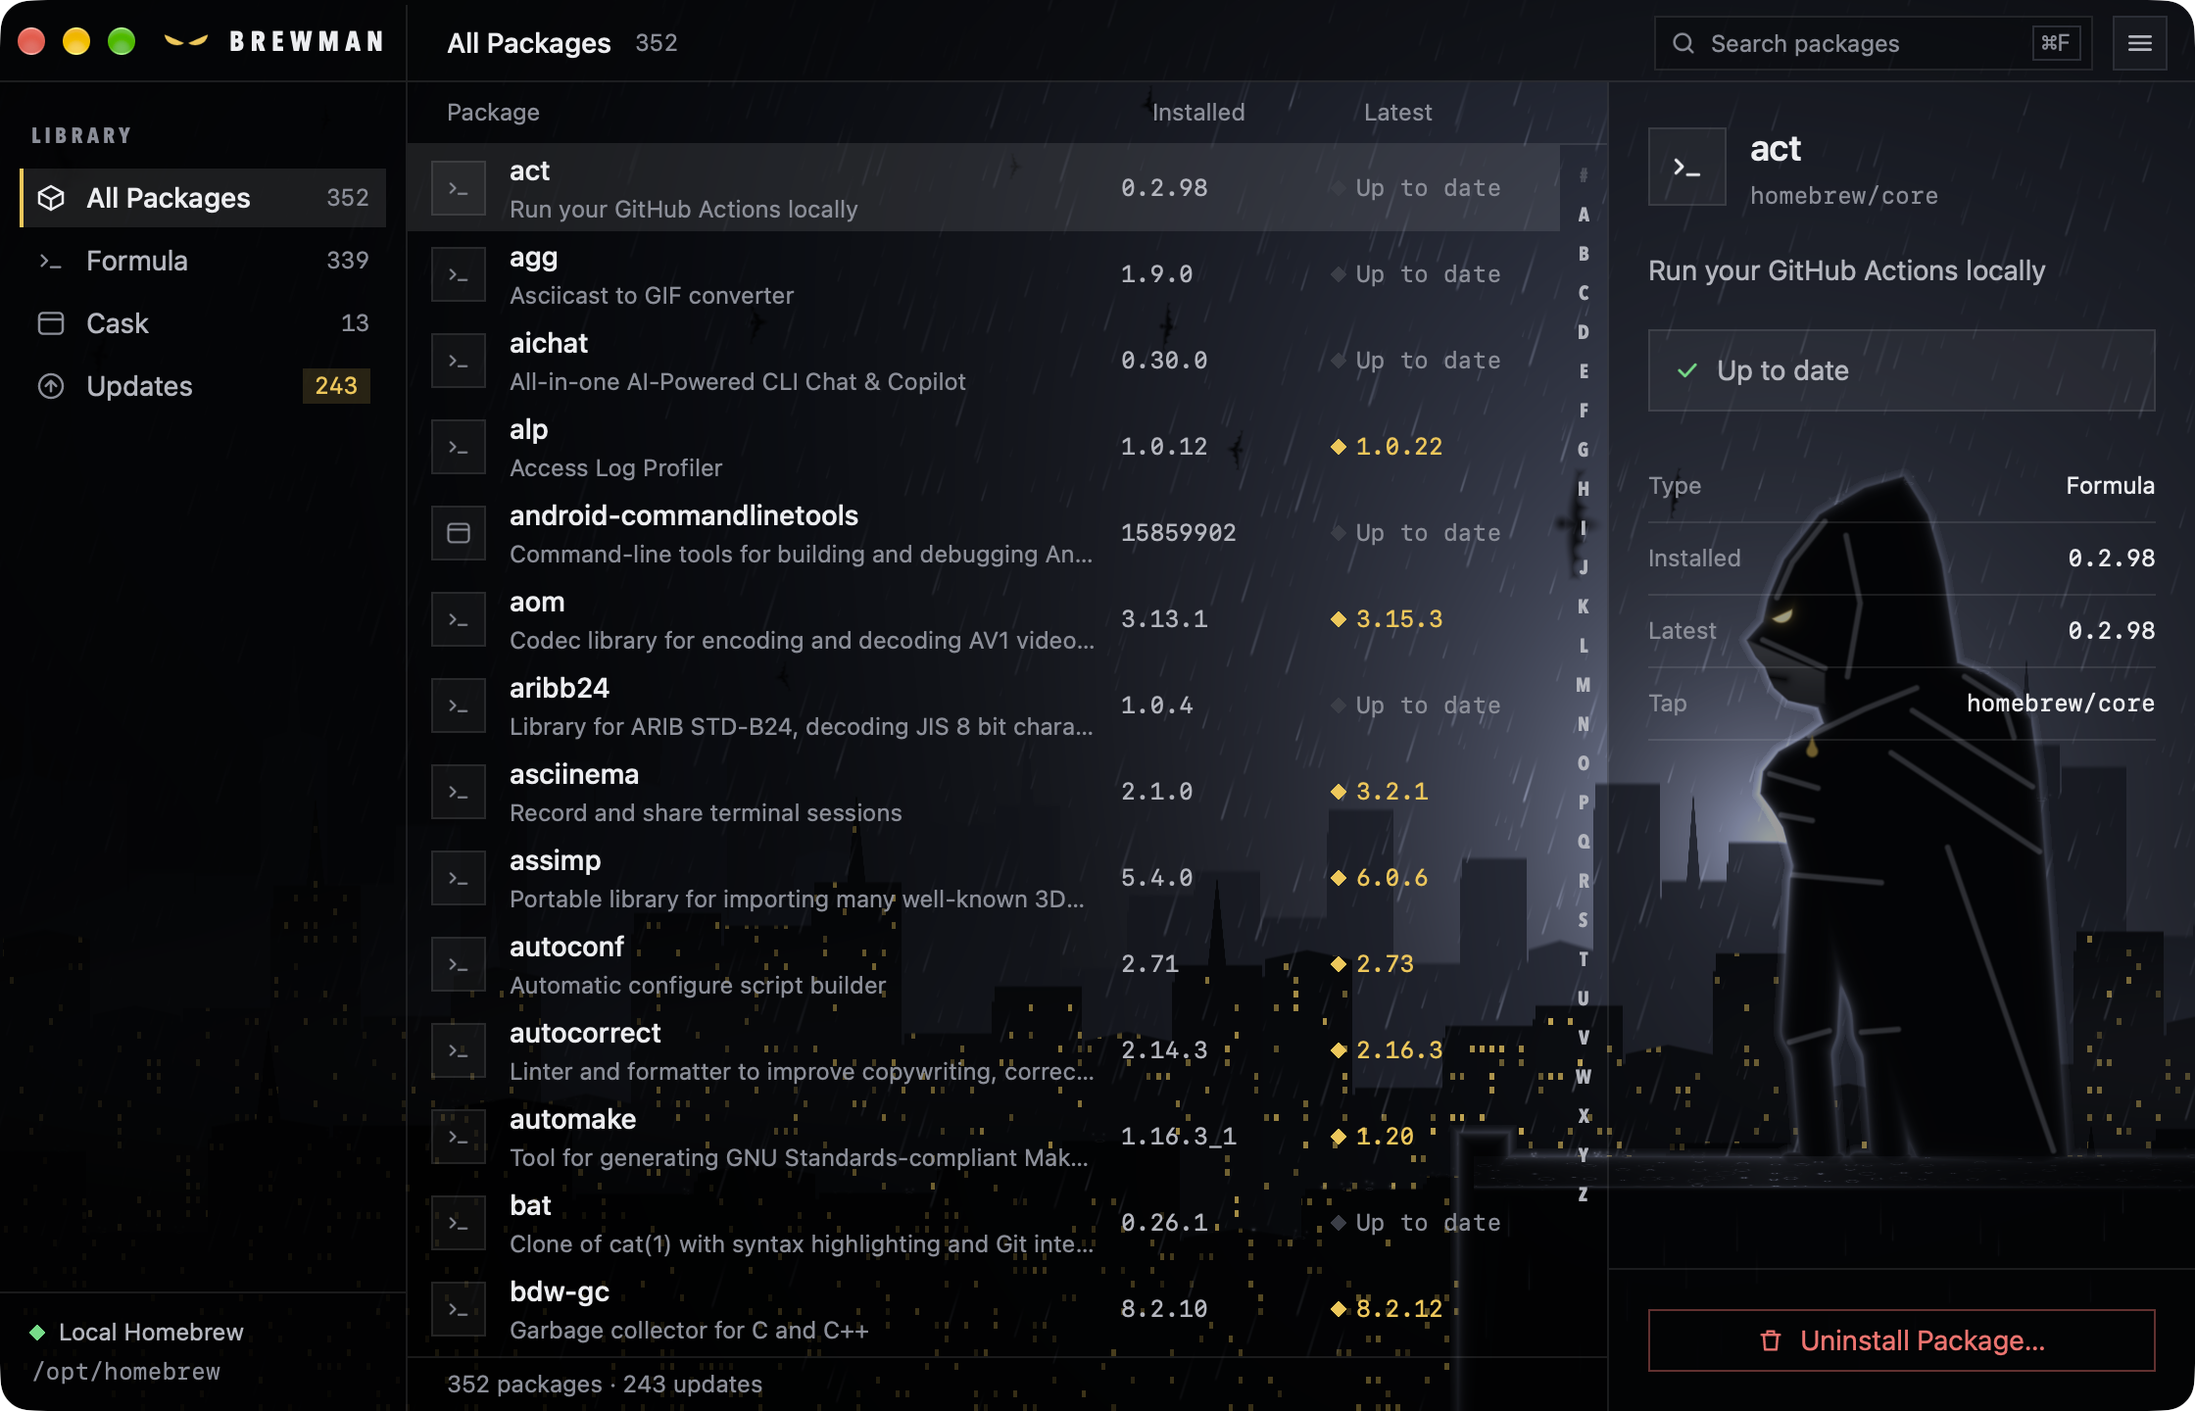
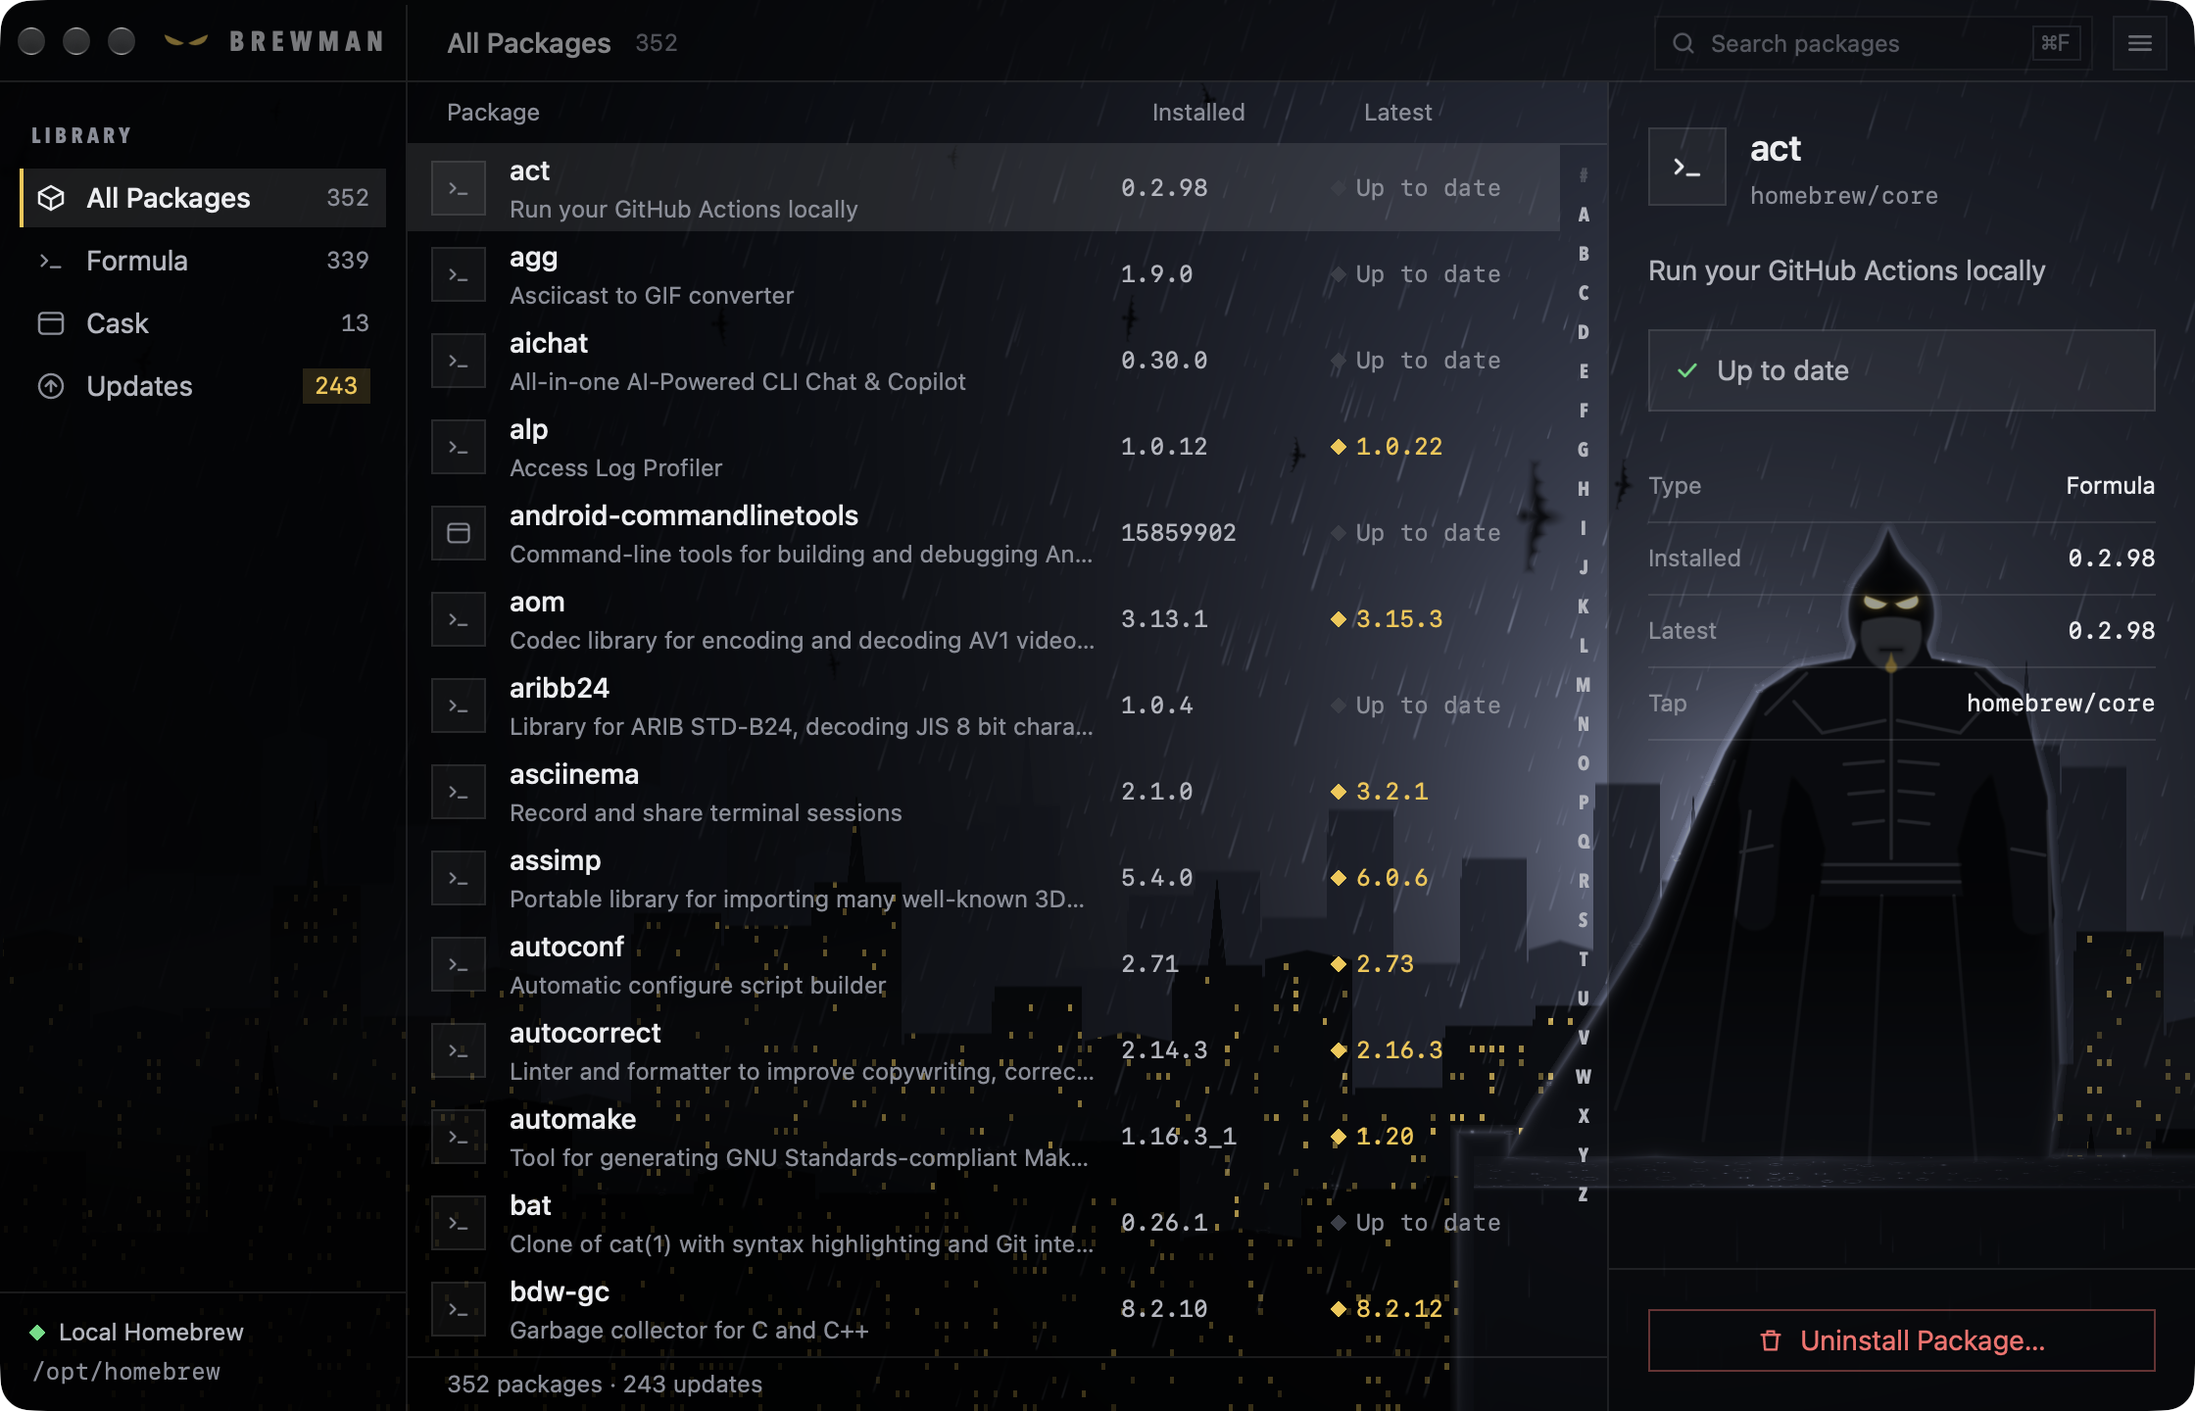
Watcher: standing, facing out, wrapped in its cape
An armored figure on the roof seen from the front: a larger hood with one
soft peak, the lens eyes, chest plates and a belt, arms at the sides with
closed fists. The cape wraps it from the shoulders to the roof, hiding
the legs, and the wind throws its left side out in slow waves. The body
is drawn at 0.8 scale with a larger head.

diff --git a/src/ui/NightScene.tsx b/src/ui/NightScene.tsx
@@ -105,82 +105,99 @@ fn poly32(p: vec2f, pts: array<vec2f, 32>, n: i32) -> f32 {
   return s * sqrt(d);
 }
 
-// The watcher, Brewman's own, drawn as an ink bust: seen in profile looking left, a hood swept back to a single
-// peak, the lower face bare below the mask, a high collar and a cape draped over the far shoulder. It is drawn in
-// its own units (a 520 × 600 box, y down), placed large behind the roof's lip.
-const W_SCALE: f32 = 0.36;
-// The boots (y 1020 in watcher units) rest on the roof's top, behind its lip.
-fn toWatcher(p: vec2f) -> vec2f { return (p - vec2f(965.0, 598.0)) / W_SCALE + vec2f(300.0, 1020.0); }
+// The watcher, Brewman's own: a broad, armored figure standing on the roof, facing out of the frame as if walking
+// toward it through the rain; a hood with one soft peak, the logo's lens eyes, a cape blown out to the left by the
+// wind that slants the rain. Drawn in frame units around its feet (FEET, y up is negative, 392 tall).
+const FEET: vec2f = vec2f(965.0, 598.0);
+const FIG_SCALE: f32 = 0.8;   // drawn at 0.8 of its own units, feet fixed
 
-fn bust(q: vec2f) -> f32 {
-  let w = sin(nsh.time * 0.8) * 4.0;   // the cape stirs
-  // Powerful, not heavy: a thick neck, the trapezius sloping hard into a rounded deltoid, the chest pushed forward
-  // over a narrow waist; the cape hangs from the far shoulder.
+fn hood(q: vec2f) -> f32 {
+  let head = length((q - vec2f(0.0, -356.0)) / vec2f(1.0, 1.2)) - 27.5;
+  return smin(head, tri(q, vec2f(-18.0, -372.0), vec2f(15.0, -376.0), vec2f(-2.0, -410.0)), 8.0);
+}
+
+// Neck, the trapezius sloping into armored shoulders, a deep chest over a narrow waist.
+fn torso(q: vec2f) -> f32 {
   return poly32(q, array<vec2f, 32>(
-    vec2f(318.0, 34.0), vec2f(352.0, 88.0), vec2f(372.0, 158.0), vec2f(384.0, 236.0), vec2f(394.0, 298.0),
-    vec2f(432.0 + w * 0.2, 312.0), vec2f(474.0 + w * 0.3, 338.0), vec2f(500.0 + w * 0.5, 378.0),
-    vec2f(512.0 + w * 0.8, 452.0), vec2f(556.0 + w * 1.4, 1000.0), vec2f(520.0 + w, 1016.0), vec2f(338.0, 1004.0),
-    vec2f(170.0, 620.0), vec2f(146.0, 532.0),
-    vec2f(130.0, 506.0), vec2f(114.0, 484.0), vec2f(118.0, 452.0), vec2f(140.0, 424.0), vec2f(176.0, 404.0),
-    vec2f(204.0, 384.0), vec2f(196.0, 362.0), vec2f(154.0, 352.0), vec2f(134.0, 334.0), vec2f(127.0, 320.0),
-    vec2f(121.0, 304.0), vec2f(108.0, 290.0), vec2f(95.0, 266.0), vec2f(118.0, 240.0), vec2f(125.0, 208.0),
-    vec2f(148.0, 152.0), vec2f(198.0, 88.0), vec2f(262.0, 50.0)), 32);
+    vec2f(-20.0, -340.0), vec2f(20.0, -340.0), vec2f(26.0, -327.0), vec2f(60.0, -319.0), vec2f(76.0, -306.0),
+    vec2f(80.0, -290.0), vec2f(70.0, -262.0), vec2f(52.0, -240.0), vec2f(42.0, -206.0), vec2f(46.0, -176.0),
+    vec2f(-46.0, -176.0), vec2f(-42.0, -206.0), vec2f(-52.0, -240.0), vec2f(-70.0, -262.0), vec2f(-80.0, -290.0),
+    vec2f(-76.0, -306.0), vec2f(-60.0, -319.0), vec2f(-26.0, -327.0), vec2f(0.0, 0.0), vec2f(0.0, 0.0),
+    vec2f(0.0, 0.0), vec2f(0.0, 0.0), vec2f(0.0, 0.0), vec2f(0.0, 0.0), vec2f(0.0, 0.0),
+    vec2f(0.0, 0.0), vec2f(0.0, 0.0), vec2f(0.0, 0.0), vec2f(0.0, 0.0), vec2f(0.0, 0.0),
+    vec2f(0.0, 0.0), vec2f(0.0, 0.0)), 18);
 }
 
-// Standing: two legs planted apart under the narrow waist, thick thighs tapering to the boots, both feet toward
-// the city on the left.
-fn legs(q: vec2f) -> f32 {
-  let near = smin(segment(q, vec2f(196.0, 610.0), vec2f(184.0, 818.0)) - 40.0,
-                  segment(q, vec2f(184.0, 818.0), vec2f(198.0, 992.0)) - 28.0, 10.0);
-  let far = smin(segment(q, vec2f(270.0, 610.0), vec2f(284.0, 818.0)) - 38.0,
-                 segment(q, vec2f(284.0, 818.0), vec2f(298.0, 992.0)) - 27.0, 10.0);
-  let boots = min(segment(q, vec2f(156.0, 1006.0), vec2f(222.0, 1006.0)) - 14.0,
-                  segment(q, vec2f(252.0, 1006.0), vec2f(318.0, 1006.0)) - 14.0);
-  return min(min(near, far), boots);
+// Arms hang at the sides, the fists closed.
+fn arms(q: vec2f) -> f32 {
+  let r = smin(smin(segment(q, vec2f(70.0, -296.0), vec2f(84.0, -236.0)) - 15.0,
+                    segment(q, vec2f(84.0, -236.0), vec2f(90.0, -176.0)) - 13.0, 5.0), length(q - vec2f(91.0, -165.0)) - 13.5, 4.0);
+  let l = smin(smin(segment(q, vec2f(-70.0, -296.0), vec2f(-82.0, -238.0)) - 15.0,
+                    segment(q, vec2f(-82.0, -238.0), vec2f(-86.0, -178.0)) - 13.0, 5.0), length(q - vec2f(-87.0, -167.0)) - 13.0, 4.0);
+  return min(r, l);
 }
 
-fn body(q: vec2f) -> f32 { return smin(bust(q), legs(q), 6.0); }
+// The cape, a long coat-like drape from shoulder to roof, its left side thrown out by the wind in slow waves.
+fn cape(q: vec2f) -> f32 {
+  let t = nsh.time;
+  let wa = sin(t * 1.2) * 5.0;
+  let wb = sin(t * 1.2 - 0.8) * 8.0;
+  let wc = sin(t * 1.2 - 1.6) * 11.0;
+  // It wraps the figure from the shoulders to the roof, hiding the legs; the wind throws the left side out.
+  return poly32(q, array<vec2f, 32>(
+    vec2f(-60.0, -322.0), vec2f(-84.0, -306.0), vec2f(-106.0, -268.0), vec2f(-130.0, -214.0), vec2f(-158.0 + wa, -156.0),
+    vec2f(-190.0 + wb, -98.0), vec2f(-220.0 + wc, -40.0), vec2f(-238.0 + wc, -8.0), vec2f(-200.0, -2.0), vec2f(-150.0, -10.0),
+    vec2f(-104.0, -2.0), vec2f(-50.0, -6.0), vec2f(10.0, -2.0), vec2f(62.0, -6.0), vec2f(100.0, -2.0),
+    vec2f(106.0 + wa * 0.4, -70.0), vec2f(104.0, -160.0), vec2f(100.0, -240.0), vec2f(84.0, -300.0), vec2f(60.0, -322.0),
+    vec2f(0.0, -332.0), vec2f(0.0), vec2f(0.0), vec2f(0.0), vec2f(0.0),
+    vec2f(0.0), vec2f(0.0), vec2f(0.0), vec2f(0.0), vec2f(0.0),
+    vec2f(0.0), vec2f(0.0)), 21);
+}
 
-// The bare lower face: below the mask's edge, which runs from under the nose back toward the jaw.
+fn armor(q: vec2f) -> f32 { return smin(torso(q), arms(q), 4.0); }
+fn walker(q: vec2f) -> f32 { return min(min(cape(q), armor(q)), smin(hood(q), torso(q), 4.0)); }
+
+// The bare lower face, below the mask's edge, which dips toward the cheeks.
 fn bareFace(q: vec2f) -> f32 {
-  let edge = (270.0 + (q.x - 104.0) * 0.42) - q.y;
-  let back = q.x - 206.0;
-  let under = q.y - 356.0;
-  return max(max(bust(q), edge), max(back, under));
+  let face = length((q - vec2f(0.0, -343.0)) / vec2f(1.0, 1.2)) - 19.5;
+  return max(face, (-354.0 + 0.009 * q.x * q.x) - q.y);
 }
 
-// The eye, the logo's lens in profile: a straight upper lid slanting down to the inner corner by the nose, a
-// shallow rounded lower lid; it blinks every few seconds.
-fn eyeLens(q: vec2f) -> f32 {
+// One of the logo's lens eyes (side -1 left, 1 right): a straight upper lid slanting down to the inner corner, a
+// rounded lower lid; both blink every few seconds.
+fn eyeLens(q: vec2f, side: f32) -> f32 {
   let open = 1.0 - step(0.965, fract(nsh.time / 5.3));
-  let a = vec2f(128.0, 238.0);
-  let b = vec2f(158.0, 224.0);
-  let dir = normalize(b - a);
-  let lid = dot(q - a, vec2f(dir.y, -dir.x));
-  let lower = length((q - vec2f(144.0, 226.0)) / vec2f(1.0, mix(0.08, 1.0, open))) - 15.0;
+  let e = vec2f((q.x - side * 9.8) * side, q.y + 363.0);
+  let lid = (-1.8 - 0.36 * e.x) - e.y;
+  let lower = length((e - vec2f(0.0, -1.5)) / vec2f(1.0, mix(0.08, 0.72, open))) - 7.2;
   return max(lid, lower);
 }
 
-// White ink strokes: the hood's front edge, its seam, the mask's edge across the cheek, the collar, and the cape's
-// folds over the shoulder. The distance to the nearest stroke.
-fn inkStrokes(q: vec2f) -> f32 {
-  var d = segment(q, vec2f(206.0, 98.0), vec2f(160.0, 156.0));
-  d = min(d, segment(q, vec2f(160.0, 156.0), vec2f(138.0, 206.0)));
-  d = min(d, segment(q, vec2f(236.0, 118.0), vec2f(256.0, 214.0)));
-  d = min(d, segment(q, vec2f(256.0, 214.0), vec2f(238.0, 318.0)));
-  d = min(d, segment(q, vec2f(118.0, 266.0), vec2f(206.0, 306.0)));
-  d = min(d, segment(q, vec2f(184.0, 402.0), vec2f(262.0, 364.0)));
-  d = min(d, segment(q, vec2f(262.0, 364.0), vec2f(336.0, 334.0)));
-  d = min(d, segment(q, vec2f(128.0, 456.0), vec2f(196.0, 476.0)));    // the chest's lower edge
-  d = min(d, segment(q, vec2f(144.0, 514.0), vec2f(188.0, 522.0)));    // a line across the waist
-  d = min(d, segment(q, vec2f(404.0, 318.0), vec2f(458.0, 352.0)));    // the deltoid's curve
-  d = min(d, segment(q, vec2f(458.0, 352.0), vec2f(474.0, 404.0)));
-  d = min(d, segment(q, vec2f(330.0, 366.0), vec2f(500.0, 474.0)));    // cape folds
-  d = min(d, segment(q, vec2f(300.0, 426.0), vec2f(510.0, 566.0)));
-  d = min(d, segment(q, vec2f(380.0, 560.0), vec2f(530.0, 990.0)));    // the cape's long fall
-  d = min(d, segment(q, vec2f(150.0, 598.0), vec2f(286.0, 610.0)));    // the belt
-  d = min(d, segment(q, vec2f(156.0, 836.0), vec2f(212.0, 820.0)));    // knees
-  d = min(d, segment(q, vec2f(258.0, 822.0), vec2f(310.0, 818.0)));
+// Armor seams and cape folds, drawn as faint lit lines: the plates of the chest, the abdomen's segments, the belt,
+// shoulder plates, gauntlets and knee guards, and the cape's long folds.
+fn seams(q: vec2f) -> f32 {
+  var d = segment(q, vec2f(0.0, -318.0), vec2f(0.0, -200.0));
+  d = min(d, segment(q, vec2f(4.0, -288.0), vec2f(44.0, -280.0)));
+  d = min(d, segment(q, vec2f(44.0, -280.0), vec2f(62.0, -300.0)));
+  d = min(d, segment(q, vec2f(-4.0, -288.0), vec2f(-44.0, -280.0)));
+  d = min(d, segment(q, vec2f(-44.0, -280.0), vec2f(-62.0, -300.0)));
+  for (var i = 0; i < 3; i = i + 1) {
+    let y = -262.0 + f32(i) * 19.0;
+    d = min(d, segment(q, vec2f(5.0, y), vec2f(30.0 - f32(i) * 3.0, y + 2.0)));
+    d = min(d, segment(q, vec2f(-5.0, y), vec2f(-30.0 + f32(i) * 3.0, y + 2.0)));
+  }
+  d = min(d, segment(q, vec2f(-44.0, -196.0), vec2f(44.0, -196.0)));
+  d = min(d, segment(q, vec2f(-44.0, -185.0), vec2f(44.0, -185.0)));
+  d = min(d, segment(q, vec2f(54.0, -318.0), vec2f(80.0, -292.0)));
+  d = min(d, segment(q, vec2f(-54.0, -318.0), vec2f(-80.0, -292.0)));
+  d = min(d, segment(q, vec2f(77.0, -206.0), vec2f(98.0, -202.0)));
+  d = min(d, segment(q, vec2f(-76.0, -208.0), vec2f(-96.0, -204.0)));
+  d = min(d, segment(q, vec2f(-6.0, -176.0), vec2f(-14.0, -6.0)));    // where the cape's two sides meet in front
+  d = min(d, segment(q, vec2f(40.0, -176.0), vec2f(54.0, -8.0)));
+  d = min(d, segment(q, vec2f(-50.0, -176.0), vec2f(-70.0, -8.0)));
+  d = min(d, segment(q, vec2f(-100.0, -262.0), vec2f(-176.0, -40.0)));
+  d = min(d, segment(q, vec2f(-90.0, -230.0), vec2f(-120.0, -20.0)));
+  d = min(d, segment(q, vec2f(100.0, -230.0), vec2f(104.0, -40.0)));
   return d;
 }
 
@@ -188,7 +205,7 @@ fn inkStrokes(q: vec2f) -> f32 {
 fn figure(p: vec2f) -> f32 {
   let roof = max(752.0 - p.x, 590.0 - p.y);
   let parapet = max(max(744.0 - p.x, p.x - 770.0), 578.0 - p.y);
-  return min(body(toWatcher(p)) * W_SCALE, min(roof, parapet));
+  return min(walker((p - FEET) / FIG_SCALE) * FIG_SCALE, min(roof, parapet));
 }
 
 // Slanted rain, falling from the upper right toward the lower left: three layers, far to near, each thinner, fainter
@@ -227,7 +244,7 @@ fn rain(p: vec2f, t: f32, k: f32, first: i32, last: i32) -> f32 {
 // skyline's roofs to the left. Traced down the column with the figure's distance field.
 fn surfaceAt(x: f32) -> f32 {
   if (x < 740.0) { return 650.0 - skyline(x + 80.0, 62.0, 9.0, 20.0, 90.0); }
-  var y = 230.0;
+  var y = 200.0;
   for (var i = 0; i < 64; i = i + 1) {
     let d = figure(vec2f(x, y));
     if (d < 0.35) { break; }
@@ -381,22 +398,26 @@ fn shade(uv: vec2f) -> vec4f {
   let inside = 1.0 - smoothstep(-0.8 / k, 0.8 / k, fd);
   col = mix(col, uniforms.base.rgb * 0.3, inside);
   col = col + uniforms.glow.rgb * exp(-abs(fd) / 2.2) * lit * 0.6 * step(fd, 4.0);
-  // The watcher in ink: the bare lower face pale with a mouth line, white strokes for the hood's edges, the mask's
-  // edge, the collar and the cape's folds, the gold raindrop clasp, and the glowing eye.
+  // The watcher: armor seams catching the light, the pale lower face with its mouth line, the gold raindrop clasp at
+  // the throat, the two glowing lens eyes; the legs fade into the rain's haze toward the roof.
   if (inside > 0.001) {
-    let q = toWatcher(fp);
-    let px = 1.0 / (k * W_SCALE);   // one window point in watcher units
-    let ink = mix(uniforms.glow.rgb, vec3f(1.0), 0.5);
+    let q = (fp - FEET) / FIG_SCALE;
+    let px = 1.0 / (k * FIG_SCALE);
+    let ink = mix(uniforms.glow.rgb, vec3f(1.0), 0.4);
+    let body = 1.0 - smoothstep(-px, px, armor(q));
+    col = mix(col, uniforms.base.rgb * 0.62 + uniforms.glow.rgb * 0.05, body * inside);
+    let seam = 1.0 - smoothstep(0.3 * px, 1.4 * px, seams(q));
+    col = col + ink * seam * mix(0.1, 0.2, body) * inside;
     let bare = (1.0 - smoothstep(-px, px, bareFace(q))) * inside;
-    let mouth = exp(-segment(q, vec2f(124.0, 318.0), vec2f(150.0, 322.0)) / (2.0 * px));
-    col = mix(col, ink * mix(0.34, 0.2, smoothstep(270.0, 356.0, q.y)) * (1.0 - mouth * 0.85), bare);
-    let stroke = 1.0 - smoothstep(0.6 * px, 2.2 * px, inkStrokes(q));
-    col = col + ink * stroke * 0.32 * inside;
-    let clasp = smin(length(q - vec2f(188.0, 424.0)) - 8.0, tri(q, vec2f(182.0, 420.0), vec2f(194.0, 420.0), vec2f(188.0, 402.0)), 2.0);
+    let mouth = exp(-segment(q, vec2f(-6.5, -333.0), vec2f(6.5, -333.0)) / (1.2 * px));
+    col = mix(col, ink * 0.3 * (1.0 - mouth * 0.85), bare);
+    let clasp = smin(length(q - vec2f(0.0, -322.0)) - 3.6, tri(q, vec2f(-2.6, -323.0), vec2f(2.6, -323.0), vec2f(0.0, -331.0)), 1.0);
     col = mix(col, uniforms.gold.rgb * 0.8, (1.0 - smoothstep(-px, px, clasp)) * inside);
-    let el = eyeLens(q);
+    let el = min(eyeLens(q, -1.0), eyeLens(q, 1.0));
     let eye = 1.0 - smoothstep(-px, px, el);
-    col = col + mix(uniforms.gold.rgb, vec3f(1.0), 0.6) * eye * 1.1 + uniforms.gold.rgb * exp(-max(el, 0.0) * W_SCALE / 2.6) * 0.3 * inside;
+    col = col + mix(uniforms.gold.rgb, vec3f(1.0), 0.6) * eye * 1.2 + uniforms.gold.rgb * exp(-max(el, 0.0) / 2.6) * 0.35 * inside;
+    let haze = smoothstep(-190.0, 0.0, q.y) * 0.35 * inside;
+    col = mix(col, uniforms.sky.rgb * 1.3 + uniforms.glow.rgb * 0.12, haze);
   }
 
   // The rain, in front of the city and the figure, catching the backlight more where it is brighter.

diff --git a/DESIGN.md b/DESIGN.md
@@ -45,7 +45,7 @@ write colours or radii.
 
 | Change | Motion | Reduced motion |
 |---|---|---|
-| Backdrop | A rainy night: rain in three depth layers slants from the upper right to the lower left; a few bats cross on random paths, speeds and sizes, their number drifting from none to a small flock; distant lightning flickers in some 11s spans; the backlight breathes, the cape billows; the watcher, an ink-style profile bust looking left, its lens-shaped eye glowing and blinking every ~5s, its cape stirring; all in the shader | Shader paused (a still night) |
+| Backdrop | A rainy night: rain in three depth layers slants from the upper right to the lower left; a few bats cross on random paths, speeds and sizes, their number drifting from none to a small flock; distant lightning flickers in some 11s spans; the backlight breathes, the cape billows; the watcher, an armored figure standing on the roof facing out, wrapped to the roof in a cape the wind throws out to the left, its lens eyes glowing and blinking every ~5s; all in the shader | Shader paused (a still night) |
 | Letter index pressed | The list scrolls to the first package under that letter (animated scroll) and selects it; the letter at the top of the list is lit gold as it scrolls | Jumps without animation |
 | About opens / closes | Native dialog fade, focus on Close | No animation |
 | Window loses / regains focus | Title bar contents fade to 50–55% opacity and back, 150ms ease-out | Instant |
